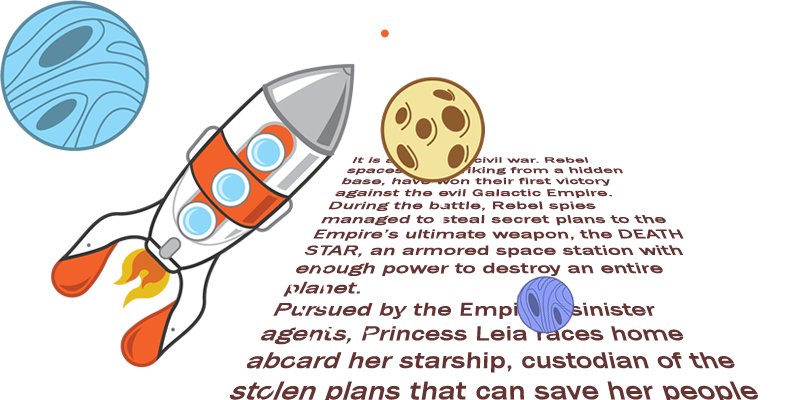
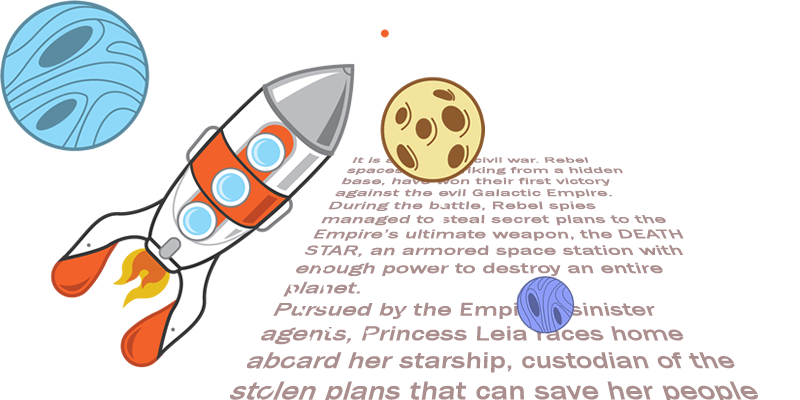
Copy

Changed region(s): [[0.3125, 0.39, 0.9375, 0.93], [0.2812, 0.96, 0.9688, 1.0]]

diff --git a/index.html b/index.html
@@ -53,7 +53,7 @@
               </div>
               <div class="image" style="flex: 1; min-height: 400px; overflow: hidden; background-image: url(/images/ide3.png)">
               </div>
-              <div style="display:flex; flex-wrap: wrap; background: #eee; border-top: 2px solid #ccc;">
+              <div style="display:flex; flex-wrap: wrap; background: #eee; border-top: 2px solid #ccc; justify-content: center; background: white">
                 <div class="text">
                   <p>
                     <img src="/images/rocket.png" style="width:280px; max-height: 140px; max-width:100%" />
@@ -91,7 +91,7 @@
                   </p>
                 </div>
               </div>
-              <div style="background: #eee; padding: 1em 1em 4em 1.5em;">
+              <div style="background: #eee; padding: 1em 1em 3em 1.5em;">
                 <p style="margin-top: 2em;">
                   <a href="https://ide.nodejam.com" style="padding: 0.5em 1em; text-decoration: none; width:240px" class="nephritis-flat-button">
                     Preview the IDE

diff --git a/css/main.css b/css/main.css
@@ -54,7 +54,8 @@ a:hover {
 }
 
 .left-pane .text {
-  flex: 1; min-width: 280px; padding: 1em 1em 2em 1em; font-size: 1.3em; box-sizing: border-box; background: white;
+  flex: 1; min-width: 280px; padding: 1em 1em 2em 1em; font-size: 1.3em;
+  box-sizing: border-box; max-width: 400px;
 }
 
 .left-pane .text p {
